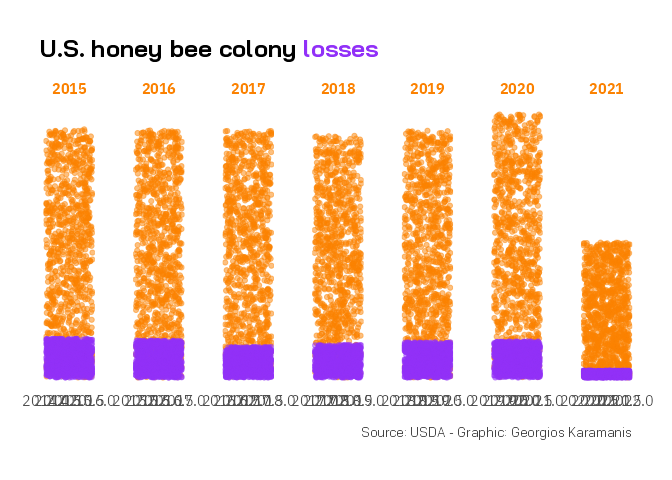
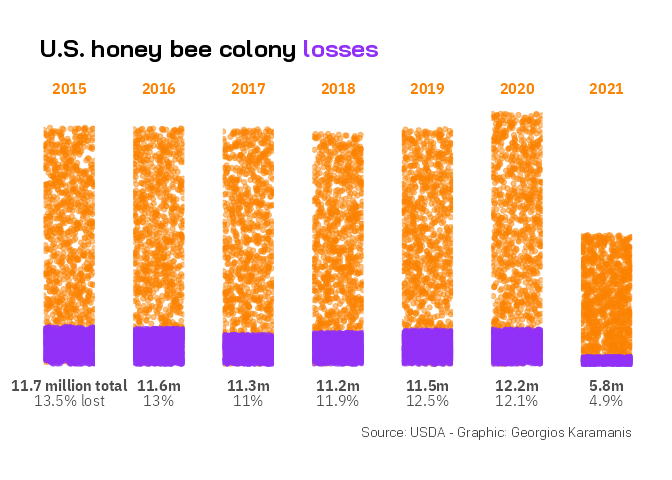
add vizbuzz

diff --git a/20220308-vizbuzz02/readme.md b/20220308-vizbuzz02/readme.md
@@ -101,7 +101,7 @@ x |>
     x = map(value, ~runif(1000,0,.x))
   ) |> 
   unnest(x) |> 
-ggplot(aes(x = year, y = x, color = fill)) +
+ggplot(aes(x = text, y = x, color = fill)) +
   geom_jitter(width = 1, height = 0, alpha = 0.5) +
   # geom_pointrange()
   scale_color_identity() +
